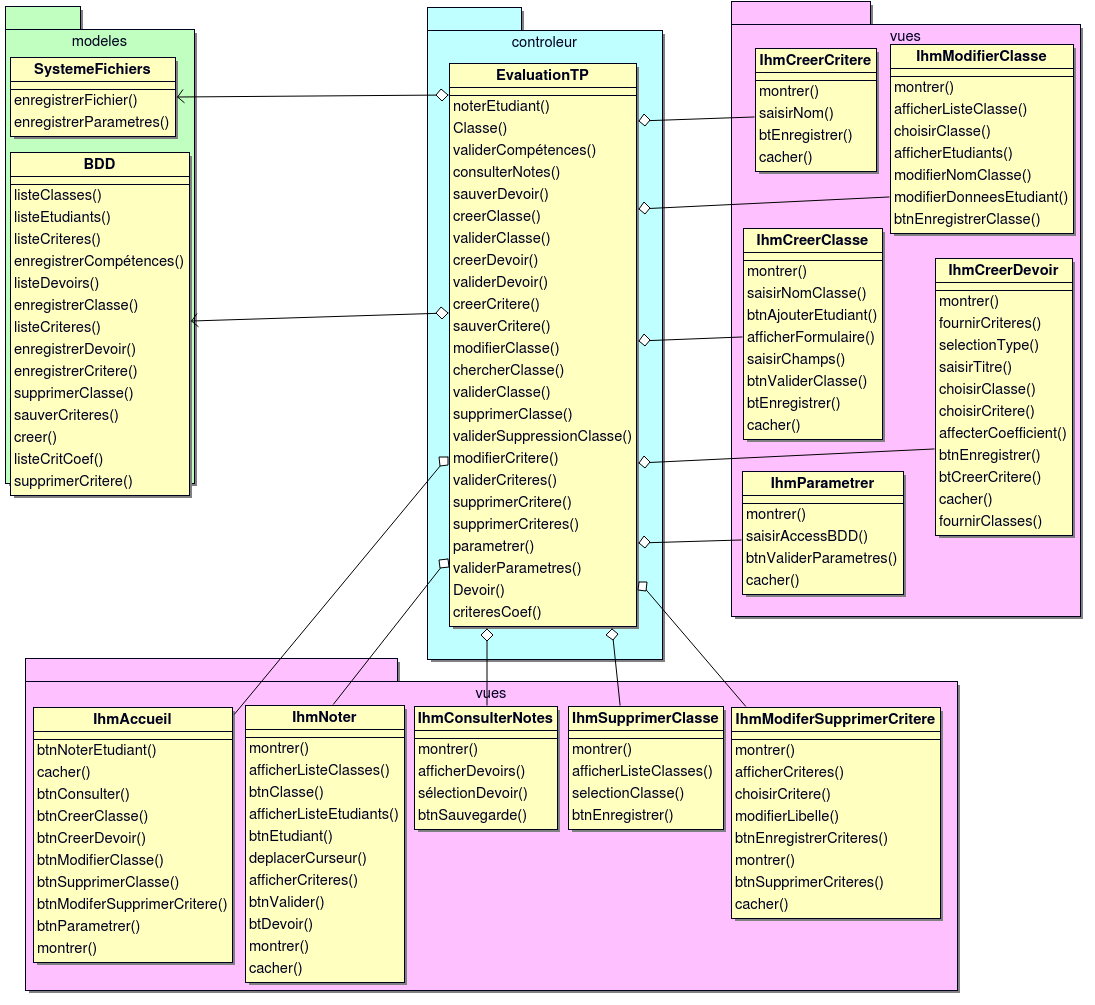
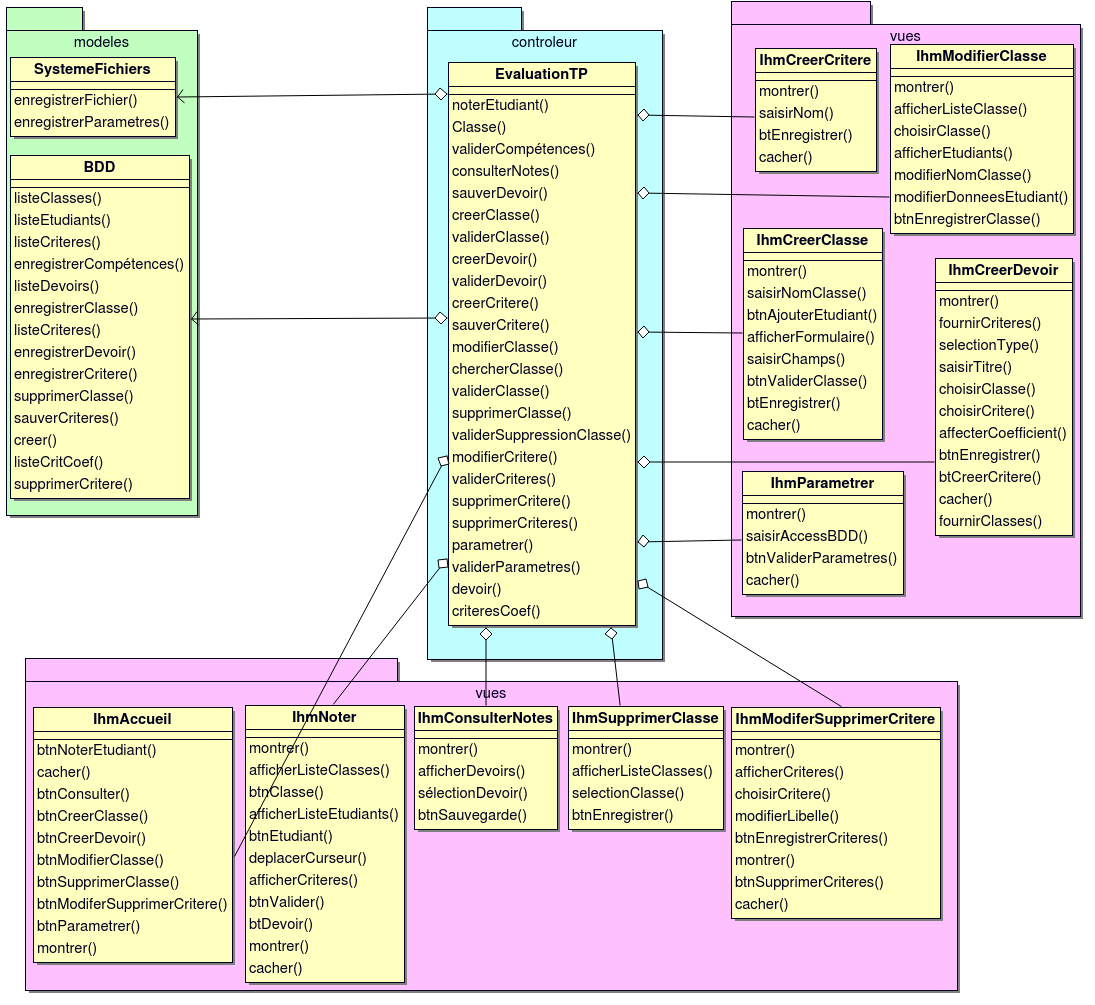
Remise en page du diagramme de classes

diff --git a/documentation/class134976.html b/documentation/class134976.html
@@ -53,8 +53,8 @@
 <table><tr><td><div class="element">Operation <b>parametrer</b></div></td></tr></table><p>Declaration :</p><ul><li>Uml : + parametrer() : </li><li>Java : public  parametrer()</li></ul><a name="ref2_153792"></a>
 <table><tr><td><div class="element">Operation <b>validerParametres</b></div></td></tr></table><p>Declaration :</p><ul><li>Uml : + validerParametres() : </li><li>Java : public  validerParametres()</li></ul><a name="ref0_143552"></a>
 <table><tr><td><div class="element">Relation <b>&lt;aggregation&gt;</b></div></td></tr></table><p>Declaration :</p><ul><li>Uml : -  : <a href="class149056.html#ref4_149056"><b>IhmParametrer</b></a></li><li>Java : private <a href="class149056.html#ref4_149056"><b>IhmParametrer</b></a> </li></ul><a name="ref2_180672"></a>
-<table><tr><td><div class="element">Operation <b>Devoir</b></div></td></tr></table><p>Declaration :</p><ul><li>Uml : + Devoir() : </li><li>Java : public  Devoir()</li></ul><a name="ref2_180928"></a>
+<table><tr><td><div class="element">Operation <b>devoir</b></div></td></tr></table><p>Declaration :</p><ul><li>Uml : + devoir() : </li><li>Java : public  devoir()</li></ul><a name="ref2_180928"></a>
 <table><tr><td><div class="element">Operation <b>criteresCoef</b></div></td></tr></table><p>Declaration :</p><ul><li>Uml : + criteresCoef() : </li><li>Java : public  criteresCoef()</li></ul></div>
-<p>All public operations : <a href="class134976.html#ref2_149696"><b>chercherClasse</b></a> , <a href="class134976.html#ref2_128960"><b>Classe</b></a> , <a href="class134976.html#ref2_130368"><b>consulterNotes</b></a> , <a href="class134976.html#ref2_131520"><b>creerClasse</b></a> , <a href="class134976.html#ref2_148160"><b>creerCritere</b></a> , <a href="class134976.html#ref2_139712"><b>creerDevoir</b></a> , <a href="class134976.html#ref2_180928"><b>criteresCoef</b></a> , <a href="class134976.html#ref2_180672"><b>Devoir</b></a> , <a href="class134976.html#ref2_149184"><b>modifierClasse</b></a> , <a href="class134976.html#ref2_151616"><b>modifierCritere</b></a> , <a href="class134976.html#ref2_128192"><b>noterEtudiant</b></a> , <a href="class134976.html#ref2_153280"><b>parametrer</b></a> , <a href="class134976.html#ref2_148800"><b>sauverCritere</b></a> , <a href="class134976.html#ref2_131136"><b>sauverDevoir</b></a> , <a href="class134976.html#ref2_150592"><b>supprimerClasse</b></a> , <a href="class134976.html#ref2_152640"><b>supprimerCritere</b></a> , <a href="class134976.html#ref2_153024"><b>supprimerCriteres</b></a> , <a href="class134976.html#ref2_132416"><b>validerClasse</b></a> , <a href="class134976.html#ref2_150336"><b>validerClasse</b></a> , <a href="class134976.html#ref2_129984"><b>validerCompétences</b></a> , <a href="class134976.html#ref2_152384"><b>validerCriteres</b></a> , <a href="class134976.html#ref2_147776"><b>validerDevoir</b></a> , <a href="class134976.html#ref2_153792"><b>validerParametres</b></a> , <a href="class134976.html#ref2_151232"><b>validerSuppressionClasse</b></a> </p>
+<p>All public operations : <a href="class134976.html#ref2_149696"><b>chercherClasse</b></a> , <a href="class134976.html#ref2_128960"><b>Classe</b></a> , <a href="class134976.html#ref2_130368"><b>consulterNotes</b></a> , <a href="class134976.html#ref2_131520"><b>creerClasse</b></a> , <a href="class134976.html#ref2_148160"><b>creerCritere</b></a> , <a href="class134976.html#ref2_139712"><b>creerDevoir</b></a> , <a href="class134976.html#ref2_180928"><b>criteresCoef</b></a> , <a href="class134976.html#ref2_180672"><b>devoir</b></a> , <a href="class134976.html#ref2_149184"><b>modifierClasse</b></a> , <a href="class134976.html#ref2_151616"><b>modifierCritere</b></a> , <a href="class134976.html#ref2_128192"><b>noterEtudiant</b></a> , <a href="class134976.html#ref2_153280"><b>parametrer</b></a> , <a href="class134976.html#ref2_148800"><b>sauverCritere</b></a> , <a href="class134976.html#ref2_131136"><b>sauverDevoir</b></a> , <a href="class134976.html#ref2_150592"><b>supprimerClasse</b></a> , <a href="class134976.html#ref2_152640"><b>supprimerCritere</b></a> , <a href="class134976.html#ref2_153024"><b>supprimerCriteres</b></a> , <a href="class134976.html#ref2_132416"><b>validerClasse</b></a> , <a href="class134976.html#ref2_150336"><b>validerClasse</b></a> , <a href="class134976.html#ref2_129984"><b>validerCompétences</b></a> , <a href="class134976.html#ref2_152384"><b>validerCriteres</b></a> , <a href="class134976.html#ref2_147776"><b>validerDevoir</b></a> , <a href="class134976.html#ref2_153792"><b>validerParametres</b></a> , <a href="class134976.html#ref2_151232"><b>validerSuppressionClasse</b></a> </p>
 </body>
 </html>

diff --git a/documentation/public_operations.html b/documentation/public_operations.html
@@ -71,7 +71,7 @@
 <tr bgcolor="#f0f0f0"><td><a href="class134976.html#ref2_139712"><b>creerDevoir</b></a></td><td><a href="class134976.html#ref4_134976"><b>EvaluationTP</b></a></td><td></td></tr>
 <tr bgcolor="#f0f0f0"><td><a href="class134976.html#ref2_180928"><b>criteresCoef</b></a></td><td><a href="class134976.html#ref4_134976"><b>EvaluationTP</b></a></td><td></td></tr>
 <tr bgcolor="#f0f0f0"><td><a href="class135104.html#ref2_129472"><b>deplacerCurseur</b></a></td><td><a href="class135104.html#ref4_135104"><b>IhmNoter</b></a></td><td></td></tr>
-<tr bgcolor="#f0f0f0"><td><a href="class134976.html#ref2_180672"><b>Devoir</b></a></td><td><a href="class134976.html#ref4_134976"><b>EvaluationTP</b></a></td><td></td></tr>
+<tr bgcolor="#f0f0f0"><td><a href="class134976.html#ref2_180672"><b>devoir</b></a></td><td><a href="class134976.html#ref4_134976"><b>EvaluationTP</b></a></td><td></td></tr>
 <tr bgcolor="#f0f0f0"><td><a href="class128192.html#ref2_132544"><b>enregistrerClasse</b></a></td><td><a href="class128192.html#ref4_128192"><b>BDD</b></a></td><td></td></tr>
 <tr bgcolor="#f0f0f0"><td><a href="class128192.html#ref2_130112"><b>enregistrerCompétences</b></a></td><td><a href="class128192.html#ref4_128192"><b>BDD</b></a></td><td></td></tr>
 <tr bgcolor="#f0f0f0"><td><a href="class128192.html#ref2_148928"><b>enregistrerCritere</b></a></td><td><a href="class128192.html#ref4_128192"><b>BDD</b></a></td><td></td></tr>

diff --git a/documentation/index_68.html b/documentation/index_68.html
@@ -21,7 +21,7 @@
 <tr bgcolor="#f0f0f0"><td><a href="index.html#ref73_134848" target = "projectFrame"><b>decision activity node</b></a></td><td>decision activity node</td><td></td></tr>
 <tr bgcolor="#f0f0f0"><td><a href="index.html#ref2_129472" target = "projectFrame"><b>deplacerCurseur</b></a></td><td>operation</td><td></td></tr>
 <tr bgcolor="#f0f0f0"><td><a href="class155968.html#ref4_155968" target = "projectFrame"><b>Devoir</b></a></td><td>class</td><td></td></tr>
-<tr bgcolor="#f0f0f0"><td><a href="index.html#ref2_180672" target = "projectFrame"><b>Devoir</b></a></td><td>operation</td><td></td></tr>
+<tr bgcolor="#f0f0f0"><td><a href="index.html#ref2_180672" target = "projectFrame"><b>devoir</b></a></td><td>operation</td><td></td></tr>
 </table>
 </body>
 </html>
